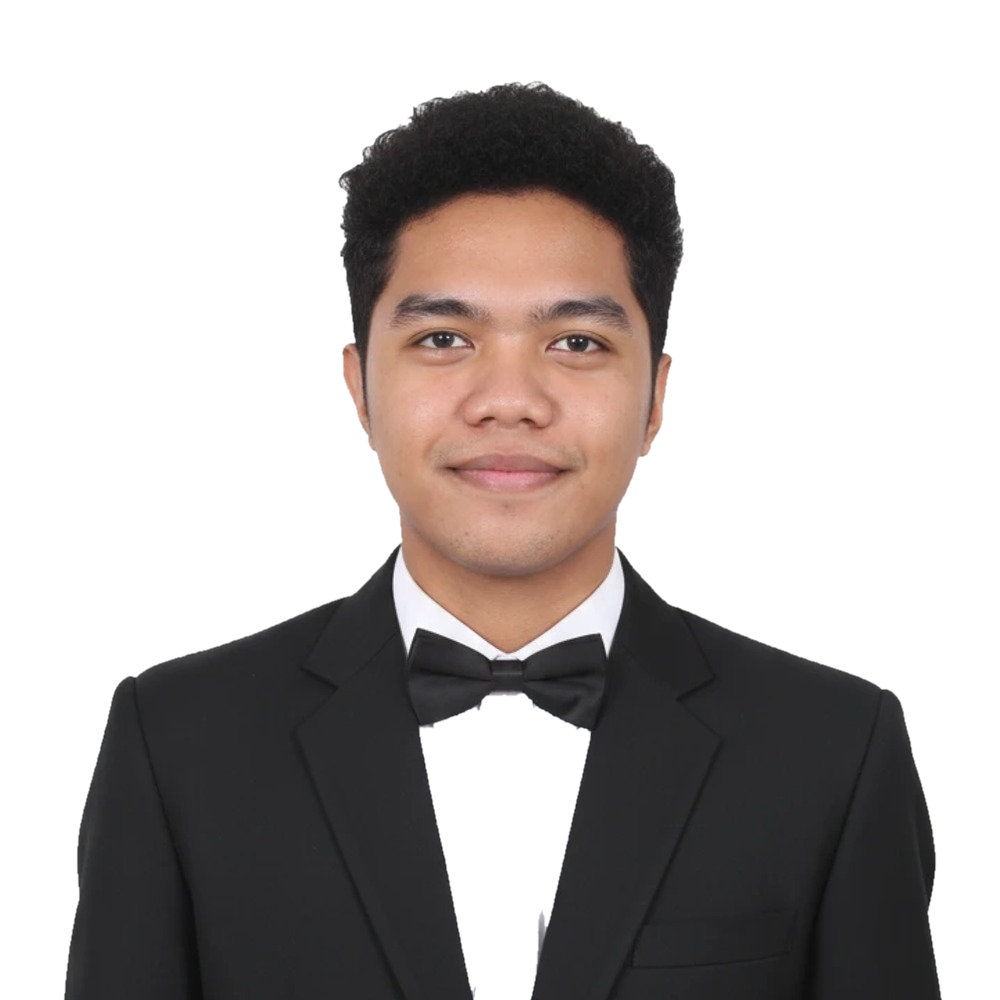
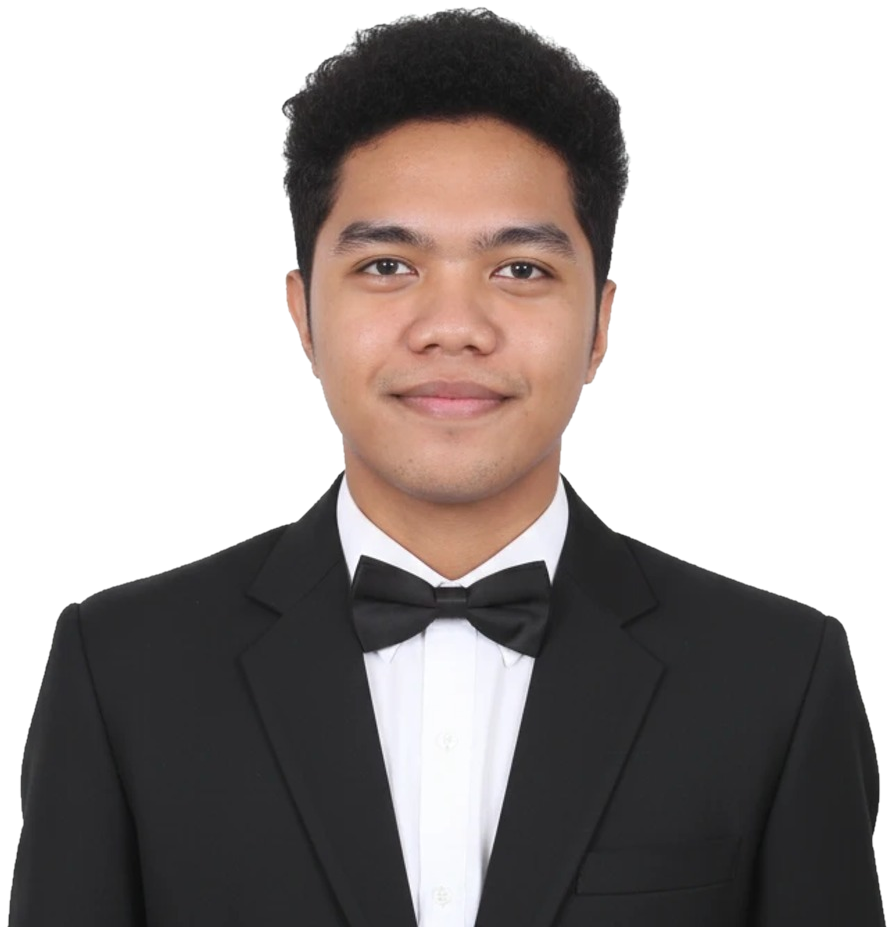
Keep the dress shirt in the cut-out, and show the portrait larger
The shirt placket is 251,252,254 — the same white as the studio backdrop —
and it runs off the bottom of the frame, so seeding the flood fill from
every border pixel let it climb up inside the jacket and punch a hole
through the shirt under the bow tie. The fill is now seeded only from the
unbroken white run at each end of each edge, which is backdrop by
construction, so nothing the subject encloses can ever become a seed.
The threshold also moves from 200 to 243 so the collar survives on colour
alone, and the result is trimmed to the figure's bounding box (894x927
from 1000x1000) instead of carrying the original empty margin.

The hero columns are rebalanced around the bigger portrait so the headline
still sets on three lines.

diff --git a/index.html b/index.html
@@ -74,7 +74,7 @@ nav .links+.avail{margin-left:0}nav .kbd+.avail{margin-left:26px}
 
 /* hero */
 .hero{padding-block:188px 118px}
-.hero .grid{display:grid;grid-template-columns:1fr 330px;gap:72px;align-items:end}
+.hero .grid{display:grid;grid-template-columns:1fr minmax(300px,390px);gap:44px;align-items:end}
 @media(max-width:980px){.hero .grid{grid-template-columns:1fr;gap:48px}.hero{padding-block:140px 86px}}
 h1{font-size:clamp(2.5rem,7.1vw,6.4rem)}
 h1 em{font-style:italic;color:var(--gold)}
@@ -101,7 +101,7 @@ h1 em{font-style:italic;color:var(--gold)}
 .portrait .f::after{content:"";position:absolute;left:14%;right:14%;bottom:-10px;height:22px;
   border-radius:50%;z-index:0;
   background:radial-gradient(closest-side,rgba(201,169,97,.2),transparent 72%);filter:blur(7px)}
-.portrait img{position:relative;z-index:1;width:100%;height:auto;display:block;
+.portrait img{position:relative;z-index:1;width:118%;max-width:none;margin-left:-9%;height:auto;display:block;
   filter:grayscale(.55) contrast(1.07) brightness(.97)
     drop-shadow(calc(var(--lx)*1px) calc(var(--ly)*1px) 22px rgba(201,169,97,.5))
     drop-shadow(0 26px 46px rgba(0,0,0,.72));
